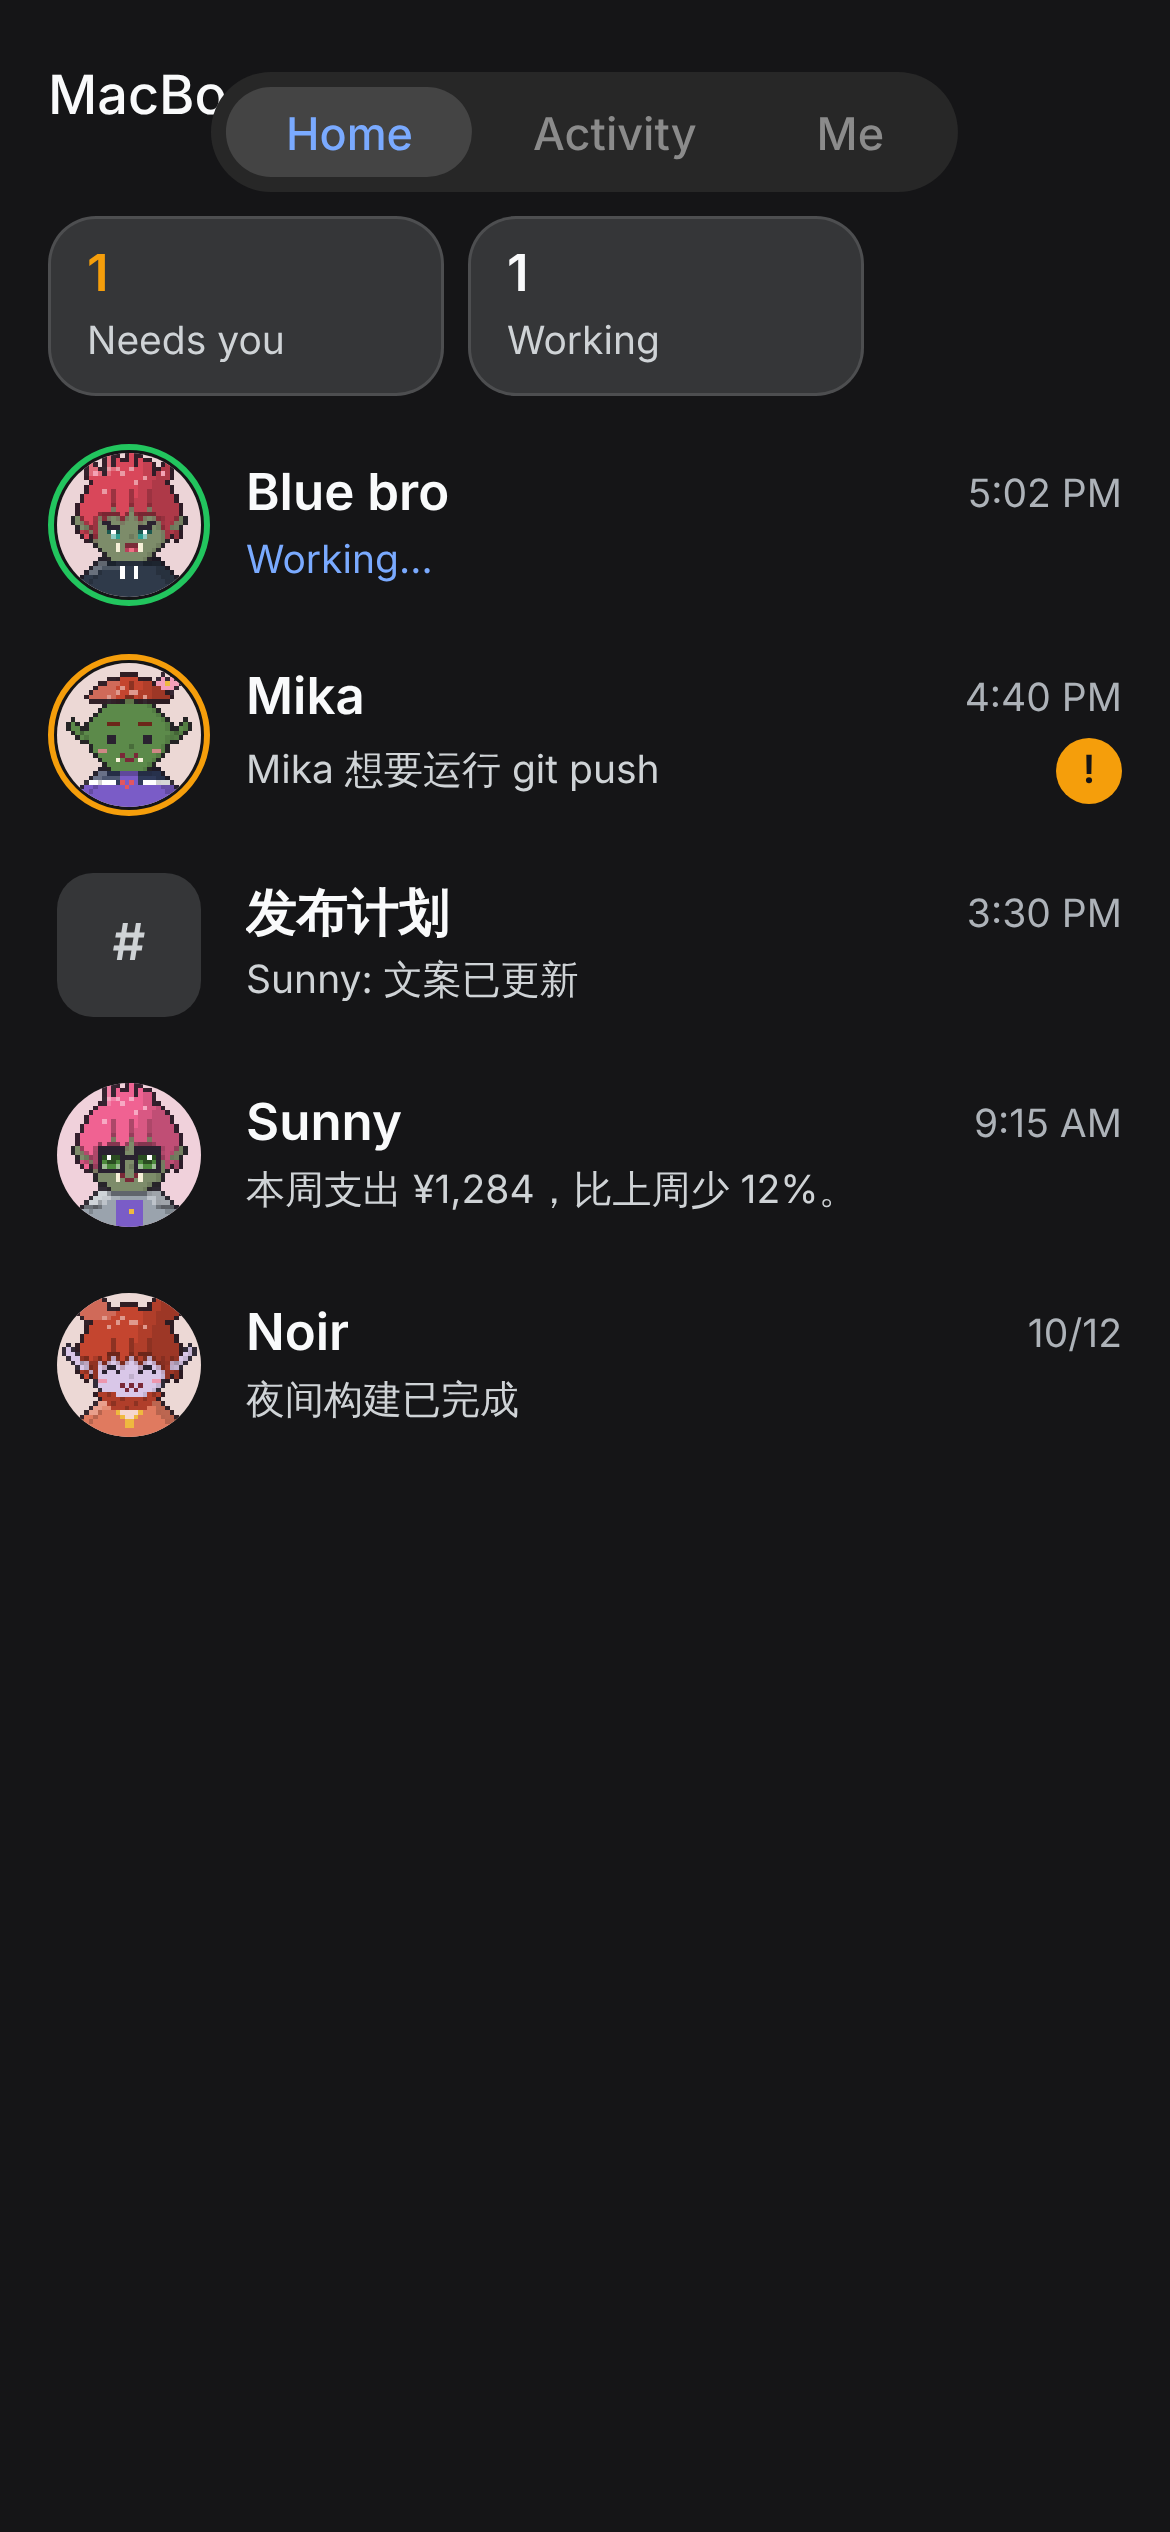
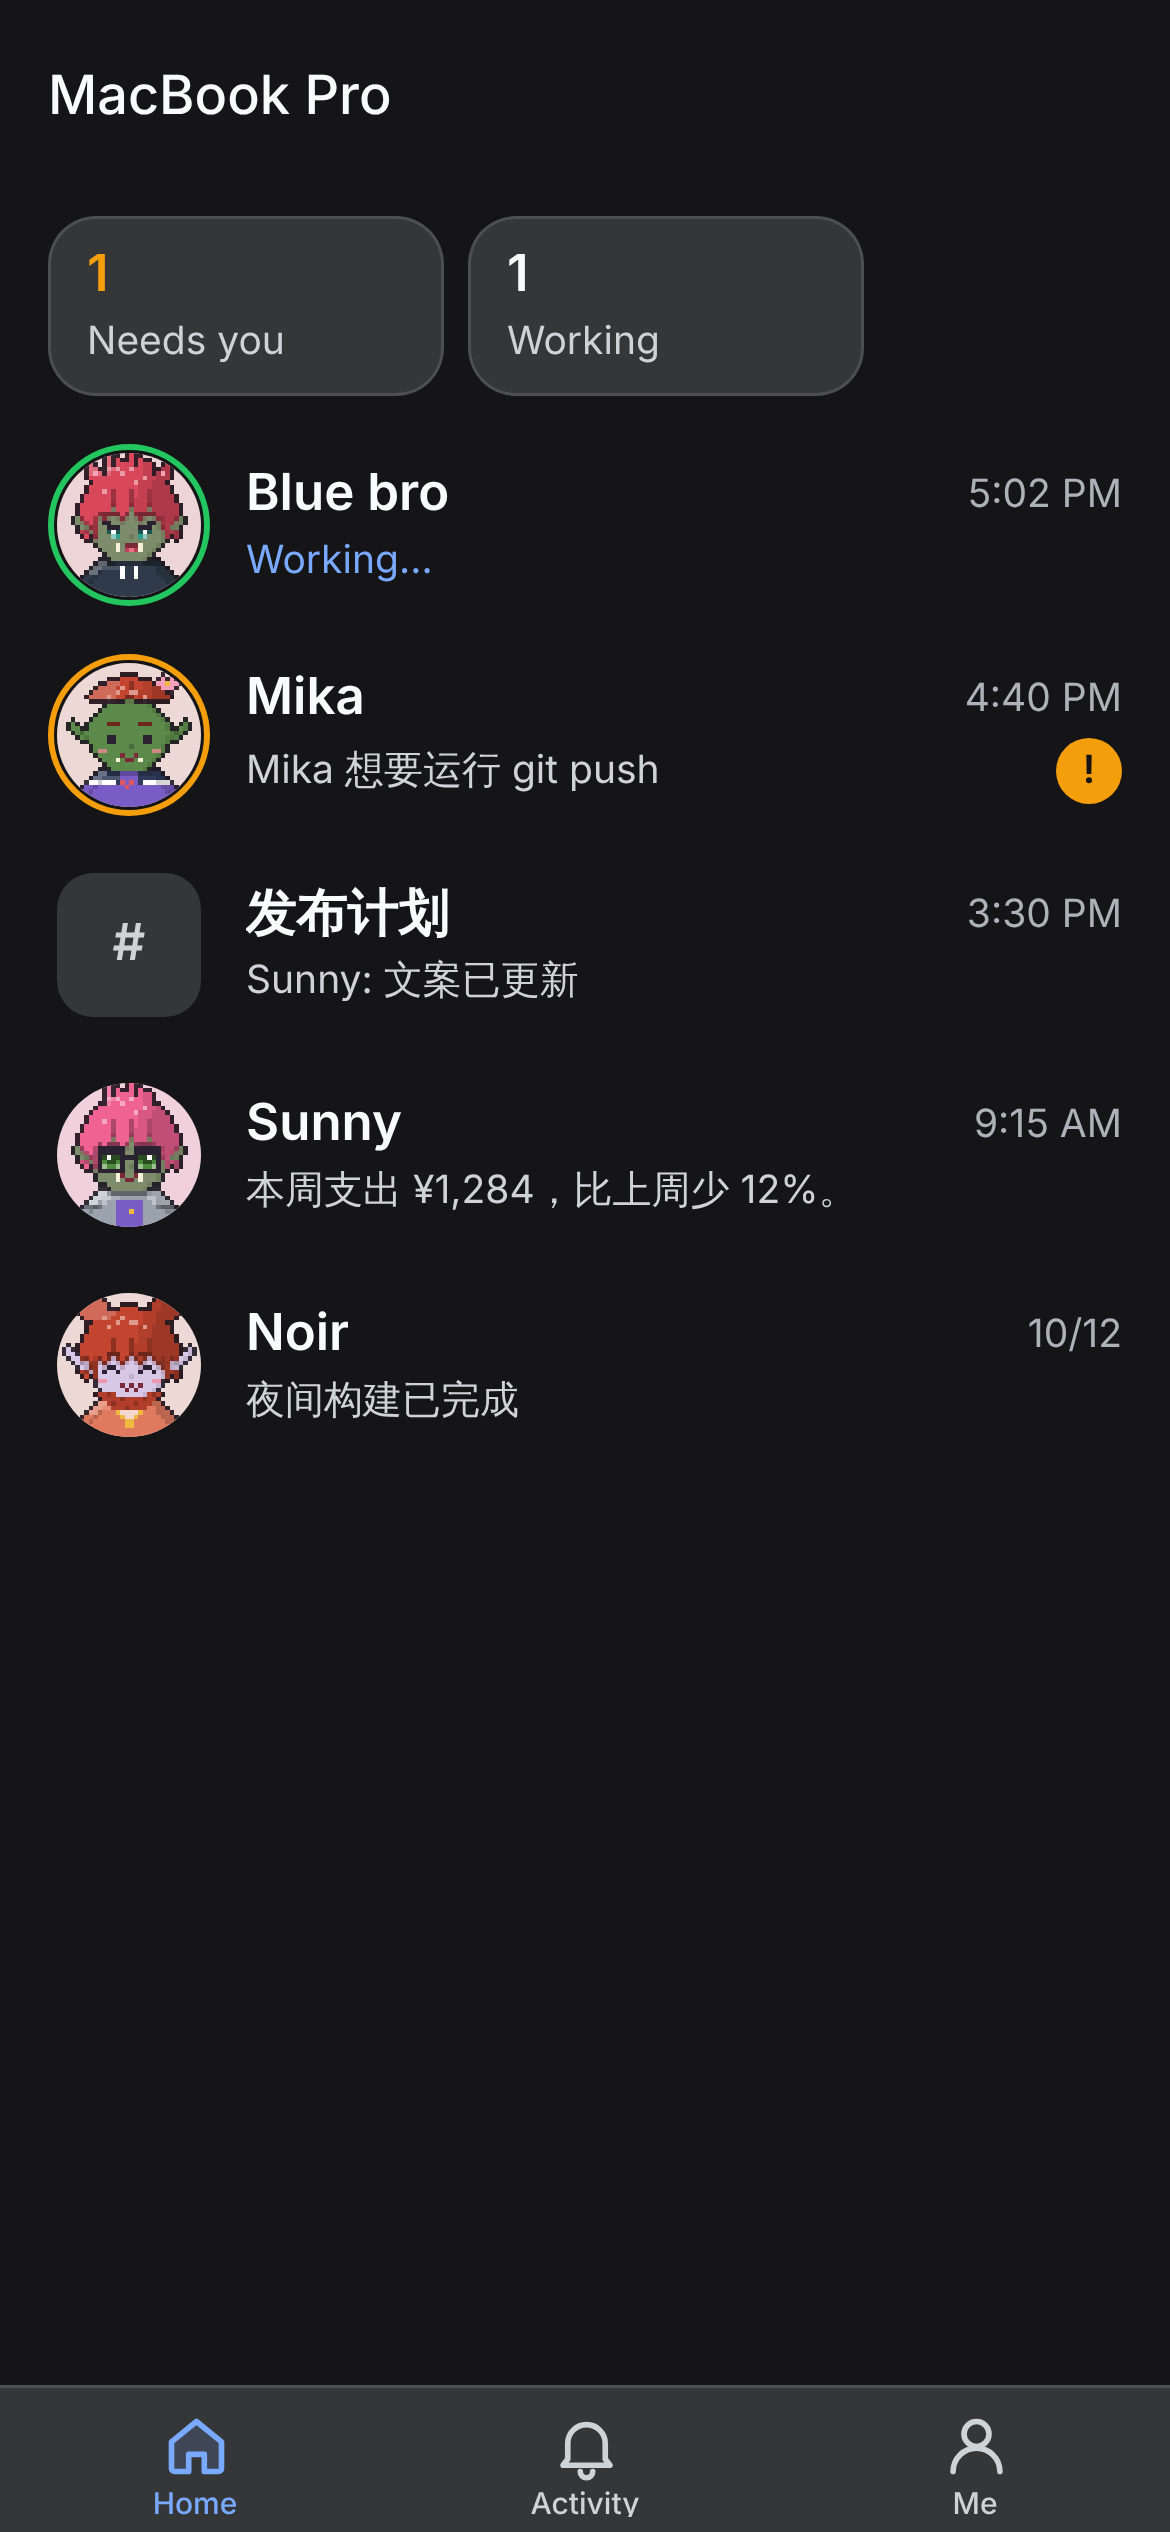
Draw the mobile tabs as a bottom bar on web too
Claude-Session: https://claude.ai/code/session_01NXyC3bMDx77BSSgVteLdRg

diff --git a/apps/mobile/app/(tabs)/_layout.web.tsx b/apps/mobile/app/(tabs)/_layout.web.tsx
@@ -1,0 +1,38 @@
+import { Tabs } from 'expo-router/js-tabs';
+
+import { actionCount } from '../../src/host/inbox';
+import { useHostSession, useInbox } from '../../src/host/host-session';
+import { useDesignTheme } from '../../src/ui/design/theme';
+import { ActivityIcon, HomeIcon, MeIcon } from '../../src/ui/shell/web-tab-icons';
+import { t } from '../../src/ui/strings';
+
+export default function TabsLayout() {
+  const theme = useDesignTheme();
+  const { inbox } = useHostSession();
+  const pending = actionCount(useInbox(inbox));
+  return (
+    <Tabs
+      screenOptions={{
+        headerShown: false,
+        tabBarActiveTintColor: theme.color.accent,
+        tabBarInactiveTintColor: theme.color.muted,
+        tabBarStyle: {
+          backgroundColor: theme.color.surface,
+          borderTopColor: theme.color.border,
+        },
+        sceneStyle: { backgroundColor: theme.color.base },
+      }}
+    >
+      <Tabs.Screen name="(home)" options={{ title: t.home, tabBarIcon: HomeIcon }} />
+      <Tabs.Screen
+        name="(activity)"
+        options={{
+          title: t.activity,
+          tabBarIcon: ActivityIcon,
+          ...(pending > 0 ? { tabBarBadge: pending } : {}),
+        }}
+      />
+      <Tabs.Screen name="(me)" options={{ title: t.me, tabBarIcon: MeIcon }} />
+    </Tabs>
+  );
+}

diff --git a/apps/mobile/src/ui/shell/web-tab-icons.tsx b/apps/mobile/src/ui/shell/web-tab-icons.tsx
@@ -1,0 +1,37 @@
+import type { ColorValue } from 'react-native';
+import Svg, { Path } from 'react-native-svg';
+
+type IconProps = { color: ColorValue; size: number; focused: boolean };
+
+function Glyph({ d, color, size, focused }: IconProps & { d: string }) {
+  return (
+    <Svg width={size} height={size} viewBox="0 0 24 24" fill="none">
+      <Path
+        d={d}
+        stroke={color}
+        fill={focused ? color : 'none'}
+        fillOpacity={focused ? 0.15 : 0}
+        strokeWidth={1.8}
+        strokeLinejoin="round"
+        strokeLinecap="round"
+      />
+    </Svg>
+  );
+}
+
+export function HomeIcon(props: IconProps) {
+  return (
+    <Glyph
+      {...props}
+      d="M4 10.5 12 4l8 6.5V19a1 1 0 0 1-1 1h-4.5v-5.5h-5V20H5a1 1 0 0 1-1-1v-8.5Z"
+    />
+  );
+}
+
+export function ActivityIcon(props: IconProps) {
+  return <Glyph {...props} d="M6 16V11a6 6 0 1 1 12 0v5l1.5 2h-15L6 16Zm4 4a2 2 0 0 0 4 0" />;
+}
+
+export function MeIcon(props: IconProps) {
+  return <Glyph {...props} d="M12 12a4 4 0 1 0 0-8 4 4 0 0 0 0 8Zm-7.5 8a7.5 7.5 0 0 1 15 0" />;
+}
